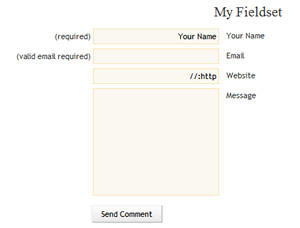
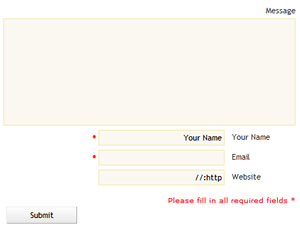
git-svn-id: https://plugins.svn.wordpress.org/cforms/tags/4.0@11916 b8457f37-d9ea-0310-8a92-e5e31aec5664

diff --git a/contactforms/styling/right2left_style.css b/contactforms/styling/right2left_style.css
@@ -4,13 +4,23 @@
 /*                                                    */
 /*  not sure if it's 100% RTL yet, let me know if     */
 /*  when find a bug!                                  */
+/*                                                    */
+/*  Please use with 'right2left_form_backup.txt'      */
+/*  file (in /contactforms/styling/ directory)        */
+/*                                                    */
 
+
+/*                                                    */
+/*  special:                                          */
+/*                                                    */
+p.infotext 	{ color:red; font-size:10px!important; text-align:right!important; 
+		margin: 0!important; padding:10px 0 0 0!important; }
 
 /*                                                    */
 /*  the entire form                                   */
 /*                                                    */
 
-.cform		{ margin:10px auto 50px auto; width: 410px; direction:rtl; }
+form.cform	{ margin:10px auto 50px auto; width: 410px; direction:rtl; text-align:right; }
 
 
 /*                                                    */
@@ -56,7 +66,7 @@ label.cformlabelafter 	{ clear:none; text-align:right!important; padding:0 6px 0
 span.chckboxtxt,
 span.cformradiotext,
 span.reqtxt,
-span.emailreqtxt 	{ float:right;	margin:6px 0; padding-left:3px; font:normal 11px 'Trebuchet MS',Arial; }
+span.emailreqtxt 	{ float:right;	margin:6px 0; padding-left:3px; font:bold 11px 'Trebuchet MS',Arial; color:red; }
 
 span.cformradiotext 		{ margin:5px 0 0 0!important; }
 * html span.cformradiotext	{ margin-top:4px!important; } /* hack: different margin for IE */
@@ -66,7 +76,7 @@ span.cformradiotext 		{ margin:5px 0 0 0!important; }
 /*              FORM FIELDSETS                        */
 /*                                                    */
 
-.cformfieldsets		{ margin-top:10px; padding:8px 0 11px 0; border:none; }
+.cformfieldsets		{ margin-top:10px; padding:8px 0 0 0; border:none; }
 
 /* you may want to remove the below line if this causes layout issues with your WP Theme (ie6 fieldset hack) */
 * html .cformfieldsets	{ position: relative; margin-top:10px; padding-top:15px; }
@@ -92,7 +102,7 @@ span.cformradiotext 		{ margin:5px 0 0 0!important; }
 /*   FIELDSET legends                                 */
 /*                                                    */
 
-.cform legend		{ margin-right:10px; font:normal 20px Times; }
+.cform legend		{ display:none; margin-right:10px; font:normal 20px Times; }
 
 /* you may want to remove the below line if this causes layout issues with your WP Theme (ie6 fieldset hack) */
 * html .cform legend	{ position:absolute; top: -10px; right: 10px; margin-right:0; }
@@ -116,7 +126,7 @@ span.cformradiotext 		{ margin:5px 0 0 0!important; }
 
 .cform input 			{ width:170px; }
 .cform select 			{ width:178px; }  /* attempt to have equal length */
-.cform textarea			{ width:170px; padding:2px 3px;}
+.cform textarea			{ width:350px; margin-right:46px; padding:2px 3px;}  /*watch out for padding above!*/
 
 .cform select.cformselectmulti	{ height:84px; }
 
@@ -144,7 +154,7 @@ input.cformchkbox 		{ margin:7px 0 6px 0; width:16px; border:none; }
 /*   FORM submit button                               */
 /*                                                    */
 
-.cform input.sendbutton	{ width:100px;  padding:2px; margin: 0px 54px 0 0; float:none!important;
+.cform input.sendbutton	{ width:100px;  padding:2px; margin: 0px 310px 0 0; float:none!important;
 			background:url(../images/button-bg.gif) repeat-x; border:1px solid #adadad!important;
 		 	border-left-color:#ececec!important; border-top-color:#ececec!important;}
 
@@ -153,8 +163,8 @@ input.cformchkbox 		{ margin:7px 0 6px 0; width:16px; border:none; }
 /*   formatting for ('required' & 'email'), optional  */
 /*                                                    */
 
-.fldemail	{ }
-.fldrequired	{ }
+.fldemail	{  }
+.fldrequired	{  }
 
 
 /*                                                    */
@@ -198,4 +208,3 @@ img.captcha	{ float:right; margin-right:10px; }
 * html .cform			{ height:1%; }
 .cform				{ display:block; }
 /* End hide from IE-mac */
-
